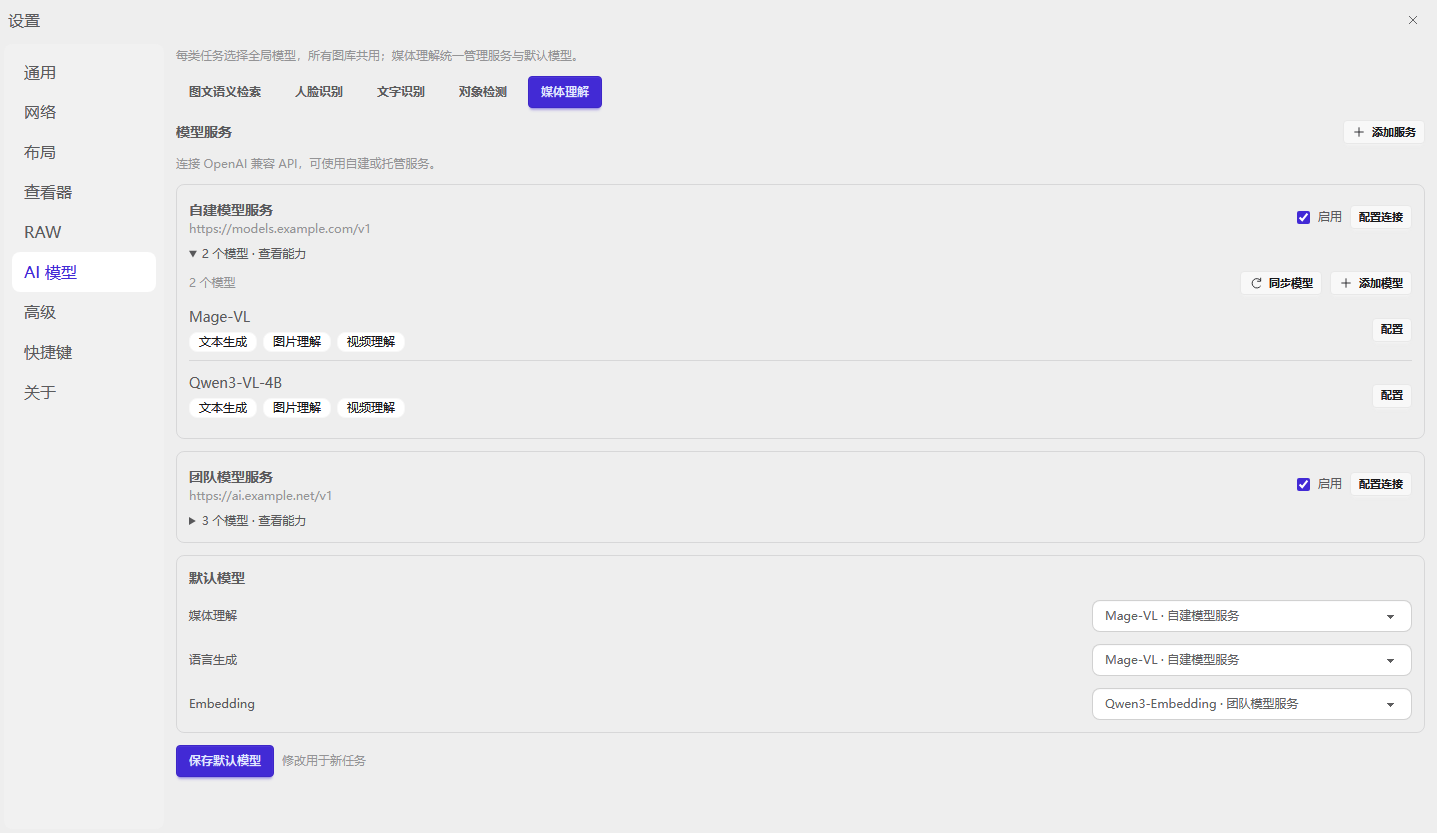
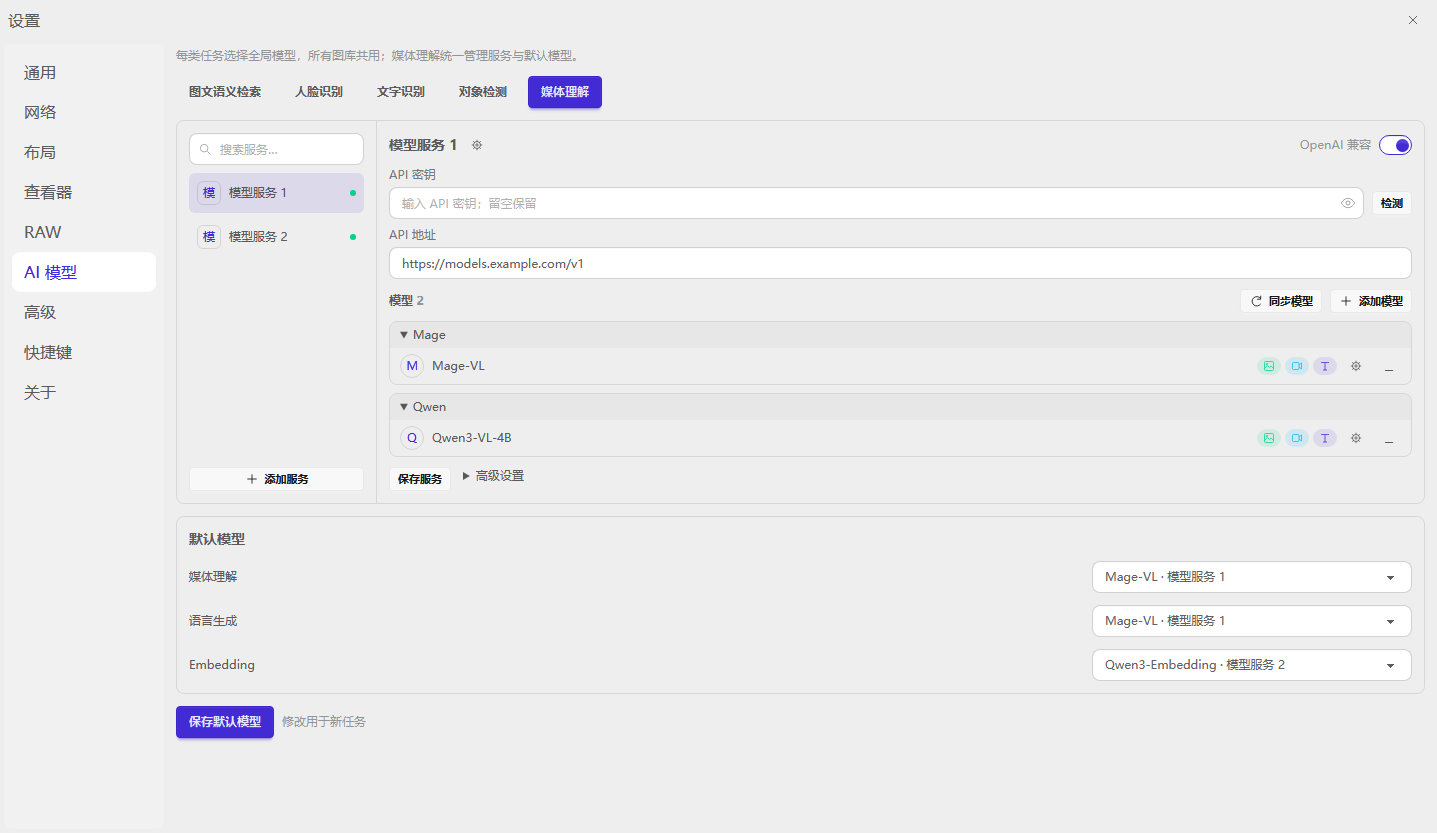
docs(design): 按参考图改为统一模型服务列表与详情

diff --git a/design/media-understanding/views-services.js b/design/media-understanding/views-services.js
@@ -1,30 +1,34 @@
 function service(id=App.state.providerId){const original=PROVIDERS.find(p=>p.id===id)||PROVIDERS[0];return {...original,...App.state.providerOverrides[original.id]};}
 function modelReady(m){return m.status==='ready'&&(!m.providerId||(service(m.providerId).enabled&&(!App.state.dirtyProviders.includes(m.providerId)||App.state.verifiedModels[m.id])));}
 function modelLabel(m){return m.name+' · '+(m.providerId?service(m.providerId).name:'本机');}
+const CAP_ICONS={image:'image',video_frames:'video',text:'text',embed_text:'grid',embed_multimodal:'box'};
+const VISIBILITY_ICON='<svg viewBox="0 0 24 24" aria-hidden="true"><path d="M2 12s3.5-7 10-7 10 7 10 7-3.5 7-10 7S2 12 2 12Z"/><circle cx="12" cy="12" r="3"/></svg>';
+function capabilityIcons(m){return Object.entries(CAP_ICONS).filter(([cap])=>m.caps.includes(cap)).map(([cap,name])=>`<span class="model-capability cap-${cap}" data-capability="${cap}" tabindex="0" title="${CAP_LABELS[cap]}" aria-label="${CAP_LABELS[cap]}">${icon(name,12)}</span>`).join('');}
 function providerModels(p){
   const rows=MODELS.filter(m=>m.providerId===p.id);
-  return `<div class="provider-models"><div class="between"><span class="helper">${rows.length} 个模型</span><div class="row">${UI.button('同步模型','sync-models','small quiet','refresh')}${UI.button('添加模型','add-provider-model','small quiet','plus')}</div></div>${rows.map(m=>`<div class="provider-model-row"><div><b>${UI.escape(m.name)}${!modelReady(m)?` <small>${UI.escape(m.state)}</small>`:''}</b><div class="cap-line">${m.caps.filter(c=>c!=='json').map(c=>UI.pill(CAP_LABELS[c])).join('')}</div></div><button class="btn btn-xs" data-model-settings="${m.id}" aria-label="配置 ${UI.escape(m.name)}">配置</button></div>`).join('')||'<p class="helper">同步模型列表，或手动添加模型 ID。</p>'}</div>`;
+  const groups=[...new Set(rows.map(m=>m.group||'其他'))];
+  return `<div class="provider-models"><div class="between"><h3>模型 <span class="helper">${rows.length}</span></h3><div class="row">${UI.button('同步模型','sync-models','small quiet','refresh')}${UI.button('添加模型','add-provider-model','small quiet','plus')}</div></div><div class="provider-model-groups">${groups.map(group=>`<details class="model-family" open><summary>${UI.escape(group)}</summary>${rows.filter(m=>(m.group||'其他')===group).map(m=>`<div class="provider-model-row"><span class="model-avatar" aria-hidden="true">${UI.escape(m.name[0])}</span><span class="provider-model-name" title="${UI.escape(m.remoteId)}">${UI.escape(m.name)}</span>${!modelReady(m)?'<span class="model-pending" title="能力待验证">待验证</span>':''}<span class="model-capabilities-inline">${capabilityIcons(m)}</span><button class="icon-button" data-model-settings="${m.id}" aria-label="配置 ${UI.escape(m.name)}" title="模型设置">${icon('settings',14)}</button><button class="icon-button" data-action="remove-provider-model" aria-label="移除 ${UI.escape(m.name)}" title="移除模型">−</button></div>`).join('')}</details>`).join('')||'<p class="helper">同步列表或手动添加模型 ID。</p>'}</div></div>`;
 }
 function serviceConnection(p){
-  return `<div class="provider-connection">${UI.field('服务名称',`<input class="input" data-service-field="name" value="${UI.escape(p.name)}" aria-label="服务名称">`)}${UI.field('API 基础地址',`<input class="input" data-service-field="baseUrl" value="${UI.escape(p.baseUrl)}" aria-label="服务 API 地址">`)}${UI.field('API 密钥',`<input class="input" type="password" placeholder="留空保留已保存的密钥" autocomplete="off" aria-label="服务 API 密钥">`)}<p class="endpoint-preview" id="endpoint-preview">OpenAI 兼容 · ${UI.escape(p.baseUrl.replace(/\/$/,''))}/chat/completions · /embeddings</p><div class="row wrap">${UI.button('保存连接','save-api','small primary')}${UI.button('检测连接','test-api','small quiet')}<span class="helper" id="api-status">${App.state.apiTested?'模拟连接检测通过；模型能力仍需分别检测。':''}</span></div><details class="provider-details"><summary>数据传输与高级设置</summary><label class="check"><input type="checkbox" checked><span>允许发送本次选定的媒体与文字</span></label><label class="check"><input type="checkbox"><span>允许后台批量处理</span></label></details></div>`;
+  return `<div class="provider-connection">${UI.field('API 密钥',`<div class="service-key-row"><div class="service-key-input"><input id="service-api-key" class="input" type="password" placeholder="输入 API 密钥；留空保留" autocomplete="off" aria-label="服务 API 密钥"><button class="icon-button" data-action="toggle-api-key" aria-label="显示 API 密钥" title="显示／隐藏密钥">${VISIBILITY_ICON}</button></div>${UI.button('检测','test-api','small quiet')}</div>`)}${UI.field('API 地址',`<input class="input" data-service-field="baseUrl" value="${UI.escape(p.baseUrl)}" aria-label="服务 API 地址">`)}</div>`;
 }
-function mediaSettings(connection=false){
+function mediaSettings(){
   App.state.task='media';
-  const expanded=connection?App.state.providerId:null;
-  const services=PROVIDERS.map((original,index)=>{
-    const p=service(original.id),open=expanded===p.id;
-    return `<section class="setting-card service-card"><div class="between"><div><strong>${UI.escape(p.name)}</strong><p class="helper">${UI.escape(p.baseUrl)}</p></div><div class="row"><label class="provider-switch"><input type="checkbox" data-provider-enabled="${p.id}" ${p.enabled?'checked':''}><span>启用</span></label><button class="btn btn-xs" data-provider="${p.id}">${open?'连接设置':'配置连接'}</button></div></div>${open?serviceConnection(p):''}<details ${index===0||open?'open':''}><summary>${MODELS.filter(m=>m.providerId===p.id).length} 个模型 · 查看能力</summary>${providerModels(p)}</details></section>`;
-  }).join('');
-  return UI.settingsWindow(`<p class="helper">每类任务选择全局模型，所有图库共用；媒体理解统一管理服务与默认模型。</p>${taskButtons()}<div class="between"><h3 class="text-sm font-semibold">模型服务</h3>${UI.button('添加服务','add-service','small quiet','plus')}</div><p class="helper">连接 OpenAI 兼容 API，可使用自建或托管服务。</p><div class="space-y-3">${services}</div>${configCard('默认模型',`${compactRole('媒体理解','image','image')}${compactRole('语言生成','text','text')}${compactRole('Embedding','textEmbed','embed_text')}`)}<div class="row">${UI.button('保存默认模型','save-routes','primary')}<span class="helper">修改用于新任务</span></div>`,{title:'一个媒体理解标签页',notes:[['服务、模型、默认用途三层','上方管理多个 OpenAI 兼容后端，每个后端管理多个模型；下方只有媒体理解、语言生成、Embedding 三个默认选择，不新增语言生成或 Embedding 标签页。'],['部署位置与品牌无关','服务只填写名称、API 基础地址和密钥。可以连接任意已部署的兼容接口；示例多模型服务可以是具有模型路由能力的网关。'],['首版范围收敛','首版只连接 API，不提供 Mage／Qwen 本机安装、环境下载或引擎选择；现有人脸、OCR、对象、CLIP 本机能力继续保留。'],['能力标记与验证','图片、视频、文本生成、文本 Embedding、多模态 Embedding 是可重叠的模型能力。默认列表按能力筛选；接口检测不代替能力检测。多模态向量输入扩展尚未验收时保持不可选。'],['视频与检索边界','首版视频以采样帧和时间说明输入；单个媒体默认模型同时引用到图片和视频用途，若不支持视频则在任务预检明确提示。Embedding 不要求每次搜索重新理解媒体。']]});
+  const p=service(),query=App.state.providerSearch.trim().toLowerCase();
+  const noMatch=!PROVIDERS.some(item=>service(item.id).name.toLowerCase().includes(query));
+  const providers=PROVIDERS.map(original=>{const item=service(original.id);return `<button class="provider-option" data-provider="${item.id}" data-provider-name="${UI.escape(item.name)}" aria-pressed="${item.id===p.id}" ${item.name.toLowerCase().includes(query)?'':'hidden'}><span class="provider-avatar" aria-hidden="true">${UI.escape(item.name[0])}</span><span class="provider-option-name">${UI.escape(item.name)}</span><span class="provider-status ${item.enabled?'enabled':''}" title="${item.enabled?'已启用':'未启用'}"></span></button>`;}).join('');
+  const name=App.state.renamingService?`<input class="input input-sm" data-service-field="name" value="${UI.escape(p.name)}" aria-label="服务名称">`:`<strong>${UI.escape(p.name)}</strong><button class="icon-button" data-action="rename-service" aria-label="修改服务名称" title="服务设置">${icon('settings',14)}</button>`;
+  const browser=`<section class="service-browser"><aside class="provider-sidebar" aria-label="模型服务列表"><label class="provider-search">${icon('search',14)}<input id="provider-search" class="input" placeholder="搜索服务…" value="${UI.escape(App.state.providerSearch)}" aria-label="搜索模型服务"></label><div class="provider-options">${providers}<p class="helper" id="provider-search-empty" ${noMatch?'':'hidden'}>没有匹配的服务</p></div>${UI.button('添加服务','add-service','small quiet','plus')}</aside><div class="provider-detail"><label class="compact-provider-picker">模型服务<select class="select" id="compact-provider" aria-label="选择模型服务">${PROVIDERS.map(item=>`<option value="${item.id}" ${item.id===p.id?'selected':''}>${UI.escape(service(item.id).name)}</option>`).join('')}</select></label><div class="provider-detail-header">${name}<span class="helper">OpenAI 兼容</span><input class="toggle toggle-sm toggle-primary" type="checkbox" role="switch" data-provider-enabled="${p.id}" ${p.enabled?'checked':''} aria-label="启用当前服务"></div>${serviceConnection(p)}${providerModels(p)}<div class="service-save-row">${UI.button('保存服务','save-api','small quiet')}<details class="provider-details"><summary>高级设置</summary><p class="endpoint-preview" id="endpoint-preview">${UI.escape(p.baseUrl.replace(/\/$/,''))}/chat/completions · /embeddings</p><label class="check"><input type="checkbox" checked><span>允许发送选定媒体与文字</span></label><label class="check"><input type="checkbox"><span>允许后台批量处理</span></label></details><span class="helper" id="api-status">${App.state.apiTested?'模拟连接检测通过；模型能力仍需分别检测。':''}</span></div></div></section>`;
+  return UI.settingsWindow(`<p class="helper">每类任务选择全局模型，所有图库共用；媒体理解统一管理服务与默认模型。</p>${taskButtons()}${browser}${configCard('默认模型',`${compactRole('媒体理解','image','image')}${compactRole('语言生成','text','text')}${compactRole('Embedding','textEmbed','embed_text')}`)}<div class="row">${UI.button('保存默认模型','save-routes','primary')}<span class="helper">修改用于新任务</span></div>`,{title:'参考附图的服务列表与详情',notes:[['服务不分类','所有服务使用相同字段与同一列表，名称由用户自定义；不设置自建、团队、托管平台等类别。图中只有中性示例名称。'],['参考 Cherry Studio 的具体交互','左侧搜索、选择和添加服务，右侧显示所选服务的名称、启用开关、API 密钥与检测、基础地址、同步／添加模型。模型按可编辑分组展示，行尾用能力图标与设置入口。这里只参考用户附图，不复制其整个设置导航。'],['融入 Lap 原设置','保留独立设置窗口、原九个分类、原四项 AI 任务与媒体理解一个新标签页。宽窗口使用列表加详情，最小窗口以服务选择器切换详情；下方仍只有三个默认模型选择。'],['能力可重叠','图片、视频、文本生成、文本 Embedding、多模态 Embedding 以图标和完整提示标记；模型设置可编辑能力。分组仅影响展示，不决定模型能力或用途。'],['首版接入范围','只接 OpenAI 兼容 API，模型服务器可以部署在任意位置。本机生成引擎和未验收的多模态向量扩展继续延后；现有专用识别不变。']]});
 }
 const ServiceViews={
-  api(){return mediaSettings(true);},
+  api(){return mediaSettings();},
   services(){return mediaSettings();},
   catalog(){return mediaSettings();},
   routing(){return mediaSettings();},
   model(){
     App.state.task='media';
     const m=UI.model(App.state.editingModelId),p=service(m.providerId);
-    return UI.settingsWindow(`<p class="helper">每类任务选择全局模型，所有图库共用；媒体理解统一管理服务与默认模型。</p>${taskButtons()}<button class="text-button" data-nav="understand">‹ 返回服务与默认模型</button>${configCard('模型属性',`${UI.field('所属服务',`<div class="inherited-value">${UI.escape(p.name)} · 继承地址与密钥</div>`)}${UI.field('模型 ID',`<input class="input" data-model-field="remoteId" value="${UI.escape(m.remoteId)}" aria-label="模型 ID">`)}${UI.field('显示名称',`<input class="input" data-model-field="name" value="${UI.escape(m.name)}" aria-label="模型显示名称">`)}`)}${configCard('模型能力',`<div class="model-capabilities">${['image','video_frames','text','embed_text','embed_multimodal','json'].map(c=>`<label><input type="checkbox" data-model-cap="${c}" ${m.caps.includes(c)?'checked':''}><span>${CAP_LABELS[c]}</span></label>`).join('')}</div><p class="helper">能力可多选；用于筛选默认模型，实际可用性还需检测。</p><p class="helper">视频当前使用带时间说明的采样帧。多模态 Embedding 需要验证服务端的输入扩展。</p><div class="row">${UI.button('检测已标记能力','check-model','small quiet')}${UI.button('保存模型','save-model','small primary')}</div>`)}<details class="provider-details"><summary>模型参数</summary><p class="helper">设置上下文、输出长度和超时；连接信息继承服务。</p></details>`,{title:'同一个模型可以标记多项能力',notes:[['模型能力不等于业务分类','Mage／Qwen-VL 可同时提供图片、视频采样帧与文本生成能力，一次配置即可在多个用途复用。'],['不会将能力标记当成测试','更改能力或模型 ID 会使验证状态失效；按具体部署分别检测。文本模型不进入媒体理解候选，生成模型不自动进入 Embedding 候选。'],['向量接口保留明确边界','多模态 Embedding 标记保留，但不在首版承诺任意服务都能经标准文本 /embeddings 接收图片或视频。']]});
+    return UI.settingsWindow(`<p class="helper">每类任务选择全局模型，所有图库共用；媒体理解统一管理服务与默认模型。</p>${taskButtons()}<button class="text-button" data-nav="understand">‹ 返回服务与默认模型</button>${configCard('模型属性',`${UI.field('所属服务',`<div class="inherited-value">${UI.escape(p.name)} · 继承地址与密钥</div>`)}${UI.field('模型 ID',`<input class="input" data-model-field="remoteId" value="${UI.escape(m.remoteId)}" aria-label="模型 ID">`)}${UI.field('显示名称',`<input class="input" data-model-field="name" value="${UI.escape(m.name)}" aria-label="模型显示名称">`)}${UI.field('显示分组',`<input class="input" data-model-field="group" value="${UI.escape(m.group||'其他')}" aria-label="模型显示分组">`)}`)}${configCard('模型能力',`<div class="model-capabilities">${['image','video_frames','text','embed_text','embed_multimodal','json'].map(c=>`<label><input type="checkbox" data-model-cap="${c}" ${m.caps.includes(c)?'checked':''}><span>${CAP_LABELS[c]}</span></label>`).join('')}</div><p class="helper">能力可多选；用于筛选默认模型，实际可用性还需检测。</p><p class="helper">视频当前使用带时间说明的采样帧。多模态 Embedding 需要验证服务端的输入扩展。</p><div class="row">${UI.button('检测已标记能力','check-model','small quiet')}${UI.button('保存模型','save-model','small primary')}</div>`)}<details class="provider-details"><summary>模型参数</summary><p class="helper">设置上下文、输出长度和超时；连接信息继承服务。</p></details>`,{title:'同一个模型可以标记多项能力',notes:[['模型能力不等于业务分类','Mage／Qwen-VL 可同时提供图片、视频采样帧与文本生成能力，一次配置即可在多个用途复用。'],['不会将能力标记当成测试','更改能力或模型 ID 会使验证状态失效；按具体部署分别检测。文本模型不进入媒体理解候选，生成模型不自动进入 Embedding 候选。'],['向量接口保留明确边界','多模态 Embedding 标记保留，但不在首版承诺任意服务都能经标准文本 /embeddings 接收图片或视频。']]});
   },
 };

diff --git a/design/media-understanding/app.js b/design/media-understanding/app.js
@@ -47,6 +47,7 @@ function navigate(screen,params={}){
 function loadLocation(){
   const q=new URLSearchParams(location.search);App.screen=VIEWS[q.get('screen')]?q.get('screen'):'models';
   App.params=q;if(App.screen==='batch')App.state.scope=SCOPES[q.get('scope')]?q.get('scope'):'selected';
+  if(PROVIDERS.some(p=>p.id===q.get('provider')))App.state.providerId=q.get('provider');
   if(App.screen==='understand')App.state.task='media';
   render();
 }
@@ -79,7 +80,7 @@ function runSearch(){
   App.state.searchRan=true;navigate('search');toast('这是检索流程示意，没有运行真实 Embedding 或媒体分析。');
 }
 function handleClick(event){
-  const provider=event.target.closest('[data-provider]');if(provider){App.state.providerId=provider.dataset.provider;App.state.apiTested=false;navigate('api');return;}
+  const provider=event.target.closest('[data-provider]');if(provider){App.state.providerId=provider.dataset.provider;App.state.apiTested=false;App.state.renamingService=false;navigate('api');return;}
   const modelSettings=event.target.closest('[data-model-settings]');if(modelSettings){App.state.editingModelId=modelSettings.dataset.modelSettings;App.state.providerId=UI.model(App.state.editingModelId).providerId;navigate('model');return;}
   const task=event.target.closest('[data-task]');if(task){App.state.task=task.dataset.task;navigate(App.state.task==='media'?'understand':'models');return;}
   const cap=event.target.closest('[data-filter]');if(cap){App.state.filter=cap.dataset.filter;render();return;}
@@ -89,7 +90,10 @@ function handleClick(event){
   const target=event.target.closest('[data-action]');
   if(!target){const nav=event.target.closest('[data-nav]');if(nav)navigate(nav.dataset.nav);return;}
   const action=target.dataset.action;
-  if(action==='add-service'){const id='custom-'+(PROVIDERS.length+1);PROVIDERS.push({id,name:'自定义服务',baseUrl:'https://api.example.com/v1',enabled:false});App.state.providerId=id;App.state.apiTested=false;navigate('api');return;}
+  if(action==='add-service'){const id='custom-'+(PROVIDERS.length+1);PROVIDERS.push({id,name:'新服务',baseUrl:'https://api.example.com/v1',enabled:false});App.state.providerId=id;App.state.apiTested=false;App.state.providerSearch='';App.state.renamingService=true;navigate('api');return;}
+  if(action==='rename-service'){App.state.renamingService=true;render();return;}
+  if(action==='toggle-api-key'){const field=target.ownerDocument.getElementById('service-api-key');field.type=field.type==='password'?'text':'password';target.setAttribute('aria-label',field.type==='password'?'显示 API 密钥':'隐藏 API 密钥');return;}
+  if(action==='remove-provider-model'){toast('移除模型入口示意；实际操作前检查默认用途和任务引用。');return;}
   if(action==='remote-guide'){window.open('../../scripts/ai-server/README.md','_blank');return;}
   if(action==='sync-models'){toast('模拟同步当前服务模型；不改变默认模型，未发送真实网络请求。');return;}
   if(action==='add-provider-model'){toast('示例：可手填服务端模型 ID；不支持列举模型的服务也可配置。');return;}
@@ -150,8 +154,9 @@ function handleChange(event){
   const el=event.target;
   if(el.hasAttribute('data-ai-model')){App.state.nativeEditingByTask={...App.state.nativeEditingByTask,[App.state.task]:el.value};App.state.editingModelId=el.value;render();return;}
   if(el.dataset.providerEnabled){const id=el.dataset.providerEnabled;App.state.providerOverrides[id]={...App.state.providerOverrides[id],enabled:el.checked};render();return;}
-  if(el.dataset.modelField||el.dataset.modelCap){const m=UI.model(App.state.editingModelId);if(el.dataset.modelField)m[el.dataset.modelField]=el.value;else{const caps=new Set(m.caps);el.checked?caps.add(el.dataset.modelCap):caps.delete(el.dataset.modelCap);m.caps=[...caps];}m.status='untested';m.state='待验证';delete App.state.verifiedModels[m.id];render();return;}
-  if(el.dataset.serviceField){const id=App.state.providerId,key=el.dataset.serviceField;App.state.providerOverrides[id]={...App.state.providerOverrides[id],[key]:el.value};if(key==='baseUrl'){App.state.apiTested=false;App.state.dirtyProviders=[...new Set([...App.state.dirtyProviders,id])];MODELS.filter(m=>m.providerId===id).forEach(m=>delete App.state.verifiedModels[m.id]);}render();return;}
+  if(el.dataset.modelField||el.dataset.modelCap){const m=UI.model(App.state.editingModelId);if(el.dataset.modelField)m[el.dataset.modelField]=el.value;else{const caps=new Set(m.caps);el.checked?caps.add(el.dataset.modelCap):caps.delete(el.dataset.modelCap);m.caps=[...caps];}if(el.dataset.modelCap||el.dataset.modelField==='remoteId'){m.status='untested';m.state='待验证';delete App.state.verifiedModels[m.id];}render();return;}
+  if(el.dataset.serviceField){const id=App.state.providerId,key=el.dataset.serviceField;App.state.providerOverrides[id]={...App.state.providerOverrides[id],[key]:el.value};if(key==='name')App.state.renamingService=false;if(key==='baseUrl'){App.state.apiTested=false;App.state.dirtyProviders=[...new Set([...App.state.dirtyProviders,id])];MODELS.filter(m=>m.providerId===id).forEach(m=>delete App.state.verifiedModels[m.id]);}render();return;}
+  if(el.id==='compact-provider'){App.state.providerId=el.value;App.state.apiTested=false;App.state.renamingService=false;navigate('api');return;}
   if(el.id==='screen-select'){const s=SCREENS[Number(el.value)];navigate(s.id,Object.fromEntries(new URLSearchParams(s.query||'')));return;}
   if(el.dataset.role){App.state.roles[el.dataset.role]=el.value;if(el.dataset.role==='image')App.state.roles.video=el.value;render();return;}
   if(el.id==='scope-select'){App.state.scope=el.value;navigate('batch',{scope:el.value});return;}
@@ -160,6 +165,14 @@ function handleChange(event){
   if(el.id==='existing-tags-only'){App.state.existingTagsOnly=el.checked;return;}
 }
 document.addEventListener('change',handleChange);
+function handleInput(event){
+  if(event.target.id!=='provider-search')return;
+  App.state.providerSearch=event.target.value;
+  const doc=event.target.ownerDocument,query=App.state.providerSearch.trim().toLowerCase();
+  const rows=Array.from(doc.querySelectorAll('[data-provider]'));rows.forEach(row=>{row.hidden=!row.dataset.providerName.toLowerCase().includes(query);});
+  doc.getElementById('provider-search-empty').hidden=rows.some(row=>!row.hidden);
+}
+document.addEventListener('input',handleInput);
 function handleKeydown(event){
   if(event.key!=='Enter')return;
   if(event.target.id==='photo-question'){event.preventDefault();appendQuestion(event.target.value);}
@@ -167,5 +180,5 @@ function handleKeydown(event){
 }
 document.addEventListener('keydown',handleKeydown);
 addEventListener('popstate',loadLocation);
-window.LapDesign={screens:SCREENS,get screen(){return App.screen;},get state(){return JSON.parse(JSON.stringify(App.state));},get designNotes(){return App.currentDesignNotes?JSON.parse(JSON.stringify(App.currentDesignNotes)):null;},get nativeView(){return App.currentNativeView;},get nativeDocument(){return document.getElementById('native-settings-frame')?.contentDocument||null;},query(selector){return this.nativeDocument?.querySelector(selector)||document.querySelector(selector);},nativeEvent(type,event){({click:handleClick,change:handleChange,keydown:handleKeydown})[type]?.(event);},nativeReady(frame){if(frame===document.getElementById('native-settings-frame'))document.body.dataset.ready='true';},nativeAction(action,value){if(action==='test-model'){App.state.verifiedModels[App.state.editingModelId]=true;toast('模拟模型能力检测，不调用真实模型。');}else toast(value||'现有功能入口保持原位。');},navigate};
+window.LapDesign={screens:SCREENS,get screen(){return App.screen;},get state(){return JSON.parse(JSON.stringify(App.state));},get designNotes(){return App.currentDesignNotes?JSON.parse(JSON.stringify(App.currentDesignNotes)):null;},get nativeView(){return App.currentNativeView;},get nativeDocument(){return document.getElementById('native-settings-frame')?.contentDocument||null;},query(selector){return this.nativeDocument?.querySelector(selector)||document.querySelector(selector);},nativeEvent(type,event){({click:handleClick,change:handleChange,input:handleInput,keydown:handleKeydown})[type]?.(event);},nativeReady(frame){if(frame===document.getElementById('native-settings-frame'))document.body.dataset.ready='true';},nativeAction(action,value){if(action==='test-model'){App.state.verifiedModels[App.state.editingModelId]=true;toast('模拟模型能力检测，不调用真实模型。');}else toast(value||'现有功能入口保持原位。');},navigate};
 loadLocation();

diff --git a/design/media-understanding/model-data.js b/design/media-understanding/model-data.js
@@ -1,8 +1,8 @@
 const SCREENS = [
   {id:'baseline',title:'当前设置布局复核',file:'00-current-settings.png',group:'现状对照',caption:'复用当前 Vue 模板与前端样式，在 1437×833 浅色窗口复核截图中的布局；数据为样例。'},
   {id:'models',title:'AI 模型原位扩展',file:'01-model-management.png',group:'模型与服务',caption:'默认仍为 CLIP，原四项任务保留，只追加一个媒体理解标签页。'},
-  {id:'understand',title:'媒体理解统一配置',file:'17-media-model.png',group:'模型与服务',caption:'同一页管理多个 OpenAI 兼容服务及其模型，下方分别选择媒体理解、语言生成和 Embedding 默认模型。'},
-  {id:'api',title:'服务连接配置',file:'08-api-connection.png',group:'模型与服务',caption:'在媒体理解页展开服务连接，只填写名称、基础地址和密钥；不绑定部署平台。'},
+  {id:'understand',title:'媒体理解统一配置',file:'17-media-model.png',group:'模型与服务',caption:'参考附图：左侧搜索和选择服务，右侧配置密钥、地址与分组模型，下方保留三个默认模型选择。'},
+  {id:'api',title:'切换模型服务',file:'08-api-connection.png',group:'模型与服务',query:'provider=service-2',caption:'服务统一为可自定义名称的同类对象；切换只编辑当前服务，模型行显示能力图标。'},
   {id:'model',title:'模型能力标记',file:'16-model-properties.png',group:'模型与服务',caption:'模型归属服务；标记图片、视频、文本生成和向量能力，用于筛选默认模型。'},
   {id:'understand',title:'媒体理解最小窗口适配',file:'19-media-compact.png',group:'窗口适配',query:'size=compact',caption:'同一组件与 CSS 在 600×620 最小窗口自然换行和滚动，不另建紧凑版页面。'},
   {id:'workspace',title:'内容索引工作区',file:'05-library-workspace.png',group:'分析与检索',caption:'分析完成不等于向量就绪；未建立内容索引的媒体不被当作内容不存在。'},
@@ -17,15 +17,15 @@ const SCREENS = [
   {id:'flow',title:'开发流程与数据边界',file:'13-flow-guide.png',group:'开发蓝图',caption:'离线索引、自然语言搜索和单媒体问答三条链路，共享部署与来源校验。'},
 ];
 const PROVIDERS = [
-  {id:'vision-server',name:'自建模型服务',baseUrl:'https://models.example.com/v1',enabled:true},
-  {id:'workspace-server',name:'团队模型服务',baseUrl:'https://ai.example.net/v1',enabled:true},
+  {id:'service-1',name:'模型服务 1',baseUrl:'https://models.example.com/v1',enabled:true},
+  {id:'service-2',name:'模型服务 2',baseUrl:'https://ai.example.net/v1',enabled:true},
 ];
 const MODELS = [
-  {id:'vision-lan',providerId:'vision-server',remoteId:'mage-vl',name:'Mage-VL',mode:'API',status:'ready',state:'示例已验证',caps:['text','image','video_frames','json']},
-  {id:'qwen-api',providerId:'vision-server',remoteId:'qwen3-vl-4b-instruct',name:'Qwen3-VL-4B',mode:'API',status:'ready',state:'示例已验证',caps:['text','image','video_frames','json']},
-  {id:'cloud-text',providerId:'workspace-server',remoteId:'text-model',name:'语言模型',mode:'API',status:'ready',state:'示例已验证',caps:['text','json']},
-  {id:'embed-text-api',providerId:'workspace-server',remoteId:'qwen3-embedding-0.6b',name:'Qwen3-Embedding',mode:'API',status:'ready',state:'示例已验证',caps:['embed_text']},
-  {id:'embed-multimodal-api',providerId:'workspace-server',remoteId:'qwen3-vl-embedding',name:'Qwen3-VL-Embedding',mode:'API',status:'untested',state:'多模态接口待验证',caps:['embed_text','embed_multimodal']},
+  {id:'vision-lan',providerId:'service-1',group:'Mage',remoteId:'mage-vl',name:'Mage-VL',mode:'API',status:'ready',state:'示例已验证',caps:['text','image','video_frames','json']},
+  {id:'qwen-api',providerId:'service-1',group:'Qwen',remoteId:'qwen3-vl-4b-instruct',name:'Qwen3-VL-4B',mode:'API',status:'ready',state:'示例已验证',caps:['text','image','video_frames','json']},
+  {id:'cloud-text',providerId:'service-2',group:'通用',remoteId:'text-model',name:'语言模型',mode:'API',status:'ready',state:'示例已验证',caps:['text','json']},
+  {id:'embed-text-api',providerId:'service-2',group:'Qwen',remoteId:'qwen3-embedding-0.6b',name:'Qwen3-Embedding',mode:'API',status:'ready',state:'示例已验证',caps:['embed_text']},
+  {id:'embed-multimodal-api',providerId:'service-2',group:'Qwen',remoteId:'qwen3-vl-embedding',name:'Qwen3-VL-Embedding',mode:'API',status:'untested',state:'多模态接口待验证',caps:['embed_text','embed_multimodal']},
   {id:'clip-local',name:'现有 CLIP',family:'CLIP 图文检索',mode:'本机',location:'本机',status:'ready',state:'既有索引',caps:['clip_query','embed_image'],note:'可继续检索既有索引，与新索引分别管理版本。'},
   {id:'ocr-local',name:'现有文字识别',family:'OCR 识别模型',mode:'本机',location:'本机',status:'ready',state:'既有能力',caps:['ocr'],note:'保留专用识别契约及人工修订。'},
 ];
@@ -39,7 +39,7 @@ const App = {
   screen:'models',params:new URLSearchParams(location.search),
   state:{
     roles:{text:'vision-lan',image:'vision-lan',video:'vision-lan',textEmbed:'embed-text-api'},
-    filter:'all',task:'semantic',providerId:'vision-server',providerOverrides:{},dirtyProviders:[],verifiedModels:{},editingModelId:'vision-lan',apiTested:false,scope:'selected',
+    filter:'all',task:'semantic',providerId:'service-1',providerSearch:'',providerOverrides:{},dirtyProviders:[],verifiedModels:{},editingModelId:'vision-lan',apiTested:false,scope:'selected',
     fields:{title:true,description:true,tags:true},indexEnabled:true,existingTagsOnly:true,
     title:'',description:'',tags:['旅行'],qaMessages:[],qaInspected:false,qaPending:false,
     searchQuery:'找出 2025 年四星以上有湖边木屋的照片和视频',searchRan:true,

diff --git a/design/media-understanding/native-frame.css b/design/media-understanding/native-frame.css
@@ -22,7 +22,21 @@ body{font-family:var(--font-sans);font-size:16px;line-height:1.5}
 .provider-row small{opacity:.6}.provider-mark,.provider-model-symbol{display:none}
 .provider-model-row,.local-model-row{display:flex;align-items:center;gap:12px;padding:8px 0;border-bottom:1px solid color-mix(in oklab,var(--color-base-content) 10%,transparent)}
 .provider-model-row>div,.local-model-row>div{display:flex;flex:1;flex-direction:column;gap:4px}.provider-model-row b,.local-model-row b{font-size:14px;font-weight:500}.provider-model-row small,.local-model-row small{font-size:12px;opacity:.6}
-.service-card{gap:8px}.service-card strong{font-size:14px;font-weight:600}.service-card summary{font-size:12px;cursor:pointer}.service-card .provider-models{gap:4px;margin-top:8px}.service-card .provider-switch{font-size:12px}.service-card .provider-model-row:last-child{border:0}.service-card .cap-line{gap:6px}
+.service-browser{display:grid;grid-template-columns:200px minmax(0,1fr);border:1px solid color-mix(in oklab,var(--color-base-content) 10%,transparent);border-radius:var(--radius-box);overflow:hidden}
+.provider-sidebar{padding:12px;display:flex;flex-direction:column;gap:8px;min-width:0;border-right:1px solid color-mix(in oklab,var(--color-base-content) 10%,transparent)}
+.provider-search{position:relative}.provider-search>.input{width:100%;padding-left:30px}.provider-search>svg{position:absolute;z-index:1;pointer-events:none;left:9px;top:9px;width:14px;height:14px;fill:none;stroke:currentColor;stroke-width:1.4;opacity:.6}
+.provider-options{display:flex;flex-direction:column;gap:4px;flex:1;max-height:330px;overflow:auto}.service-browser [hidden]{display:none}
+.provider-option{display:flex;align-items:center;gap:8px;padding:8px;border:0;border-radius:6px;text-align:left;font-size:12px;cursor:pointer;min-width:0}.provider-option[aria-pressed=true]{background:color-mix(in oklab,var(--color-primary) 10%,transparent)}
+.provider-avatar,.model-avatar{width:24px;height:24px;flex:none;display:grid;place-items:center;border:1px solid color-mix(in oklab,var(--color-base-content) 12%,transparent);border-radius:6px;font-size:12px;color:var(--color-primary)}
+.provider-option-name{flex:1;overflow:hidden;text-overflow:ellipsis;white-space:nowrap}.provider-status{width:6px;height:6px;border-radius:50%;background:color-mix(in oklab,var(--color-base-content) 25%,transparent)}.provider-status.enabled{background:var(--color-success)}
+.provider-option:focus-visible,.icon-button:focus-visible,.model-capability:focus-visible{outline:2px solid var(--color-primary);outline-offset:2px}
+.provider-detail{display:flex;flex-direction:column;gap:10px;padding:12px;min-width:0}.provider-detail-header{display:flex;align-items:center;gap:8px;min-width:0}.provider-detail-header strong{font-size:14px;font-weight:600}.provider-detail-header>.helper{margin-left:auto}.provider-detail-header>.input{width:auto;min-width:0;flex:1}
+.provider-detail .provider-connection,.provider-detail .provider-models{gap:8px}.provider-detail .provider-models h3{font-size:12px}.service-key-row{display:flex;align-items:center;gap:8px}.service-key-input{position:relative;min-width:0;flex:1}.service-key-input>.input{padding-right:32px}.service-key-input>.icon-button{position:absolute;right:4px;top:4px;opacity:.6}
+.provider-model-groups{display:flex;flex-direction:column;gap:8px;max-height:220px;overflow:auto}.model-family{border:1px solid color-mix(in oklab,var(--color-base-content) 10%,transparent);border-radius:8px;overflow:hidden}.model-family>summary{padding:4px 10px;font-size:12px;cursor:pointer;background:color-mix(in oklab,var(--color-base-content) 3%,transparent)}
+.provider-detail .provider-model-row{padding:6px 10px;gap:8px}.provider-detail .provider-model-row:last-child{border:0}.provider-model-name{flex:1;min-width:0;font-size:12px;overflow:hidden;text-overflow:ellipsis;white-space:nowrap}.model-avatar{border-radius:50%}.model-pending{font-size:11px;opacity:.6;white-space:nowrap}
+.model-capabilities-inline{display:flex;gap:4px;align-items:center}.model-capability{display:grid;place-items:center;width:24px;height:18px;border-radius:12px;background:color-mix(in oklab,var(--color-primary) 10%,transparent);color:var(--color-primary)}.model-capability>svg{width:12px;height:12px;fill:none;stroke:currentColor;stroke-width:1.5}.cap-image{background:color-mix(in oklab,var(--color-success) 12%,transparent);color:var(--color-success)}.cap-video_frames{background:color-mix(in oklab,var(--color-info) 12%,transparent);color:var(--color-info)}.cap-embed_text{background:color-mix(in oklab,var(--color-secondary) 12%,transparent);color:var(--color-secondary)}
+.service-save-row{display:flex;align-items:flex-start;gap:12px}.compact-provider-picker{display:none;flex-direction:column;gap:4px;font-size:12px}.compact-provider-picker>.select{width:100%}
+@media(max-width:850px){.service-browser{grid-template-columns:minmax(0,1fr)}.provider-sidebar{display:none}.compact-provider-picker{display:flex}.provider-detail-header .helper{font-size:11px}.provider-detail .provider-model-row{padding:6px;gap:6px}.model-pending{display:none}.model-capability{width:20px}.provider-detail .model-avatar{display:none}}
 .provider-details{font-size:12px}.provider-details summary{cursor:pointer}.provider-details p,.provider-details .check{margin-top:8px}
 .compact-role{display:grid;grid-template-columns:minmax(140px,1fr) minmax(160px,320px);gap:4px 16px;align-items:center}.compact-role .select{width:100%}.compact-role .helper{grid-column:1/-1}
 .cap-line,.service-shortcuts{display:flex;gap:8px;flex-wrap:wrap}.service-tip,.test-status{display:flex;gap:8px;align-items:center;opacity:.6;font-size:12px;line-height:16px}.service-tip svg,.test-status svg{width:14px;height:14px;flex:none;fill:none;stroke:currentColor;stroke-width:1.5}

diff --git a/design/media-understanding/gallery.html b/design/media-understanding/gallery.html
@@ -17,7 +17,7 @@
   </style>
 </head>
 <body>
-  <header><div><h1>Lap AI · 按当前界面修订的设计稿</h1><p>设置复用当前 Vue 模板与样式，保留原四项任务，只追加媒体理解。页内管理多个 OpenAI 兼容服务及模型，下方选择媒体理解、语言生成和 Embedding 默认模型；服务可部署在任意位置。首版不增加本机生成引擎。所有模型能力与任务数据均为示例。</p></div><a href="index.html?screen=understand">打开交互原型 →</a></header>
+  <header><div><h1>Lap AI · 按当前界面修订的设计稿</h1><p>设置复用当前 Vue 模板与样式，只追加媒体理解。按本轮附图使用左侧服务列表、右侧连接详情与分组模型，能力以图标标记；所有服务同类、名称可自定义，下方仍是三个默认模型选择。首版只接 OpenAI 兼容 API。所有模型能力与任务数据均为示例。</p></div><a href="index.html?screen=understand">打开交互原型 →</a></header>
   <div class="scope">范围：产品设计与开发蓝图。图片只包含应用窗口；<a href="NOTES.md">设计说明单独查看</a>。当前布局图为源码重建，模型调用、下载、数据库写入均为模拟。业务边界见 <a href="SPEC.md">SPEC.md</a>，现状证据见 <a href="BASELINE.md">BASELINE.md</a>。</div>
   <main id="gallery"></main>
   <script src="model-data.js"></script>

diff --git a/design/media-understanding/native-frame.js b/design/media-understanding/native-frame.js
@@ -70,6 +70,7 @@
   app.mount('#native-root');
   document.addEventListener('click',event=>design.nativeEvent('click',event));
   document.addEventListener('change',event=>design.nativeEvent('change',event));
+  document.addEventListener('input',event=>design.nativeEvent('input',event));
   document.addEventListener('keydown',event=>design.nativeEvent('keydown',event));
   await V.nextTick();await document.fonts.ready;
   document.documentElement.dataset.ready='true';

diff --git a/docs/development/ai-service-protocols.md b/docs/development/ai-service-protocols.md
@@ -22,7 +22,7 @@ Qwen3-VL 官方也给出了 vLLM／SGLang 的 OpenAI 风格服务部署，DeepSe
 - `src/main/ai/provider/listModels.ts`：模型列表按服务协议取得，并有差异处理。
 - `src/renderer/pages/settings/ModelSettings/ModelSettings.tsx`：默认模型按业务引用已有模型。
 
-取其共享数据组织与能力标记，不复制管理台导航。Lap 保留原四项任务，只追加媒体理解；新标签页上方管理服务及模型，下方分别选择媒体理解、语言生成、Embedding。连接在服务卡片中展开，不另设服务／默认模型顶层入口。设置仍按用户 1437×833 浅色截图展示，并检查 600×620 最小窗口。
+按用户本轮附图采用更具体的接入交互：服务列表支持搜索、选择与添加；右侧为所选服务的启用开关、密钥与检测、API 地址、模型同步／添加、分组模型和能力图标。所有服务同类、名称自定义，不分自建或团队。Lap 保留原四项任务，只追加媒体理解，下方仍是三个默认模型选择；原设置导航与样式继续保留。主图 1437×833，最小 600×620 使用服务选择器。
 
 服务可以有多个模型，但“支持列举模型”“模型可推理”“图片或视频能力可用”分别验证。同步失败时允许手填 ID；同步不自动切换默认模型，不删除任务或历史引用所需的模型身份。
 
@@ -31,7 +31,7 @@ Qwen3-VL 官方也给出了 vLLM／SGLang 的 OpenAI 风格服务部署，DeepSe
 | 对象 | 字段 |
 | --- | --- |
 | 服务 | ID、名称、启用、基础地址、凭据引用、上传与后台许可、超时；首版固定 OpenAI 兼容 |
-| 服务内模型 | 稳定内部 ID、providerId、远程 model ID、显示名、能力、输入限制、模型参数覆盖、按能力回执 |
+| 服务内模型 | 稳定内部 ID、providerId、远程 model ID、显示名、展示分组、能力、输入限制、模型参数覆盖、按能力回执；分组不参与能力判定 |
 | 能力标记 | 图片理解、视频理解（首版采样帧）、文本生成、文本 Embedding、多模态 Embedding；另记按能力检测结果 |
 | 默认模型 | 媒体理解、语言生成、Embedding → 已配置模型引用；媒体项按类型预检能力 |
 | 后续本机来源 | 与 API 分开声明，由 Lap 管理资源和引擎；首版不新增本机生成运行环境 |

diff --git a/design/media-understanding/BASELINE.md b/design/media-understanding/BASELINE.md
@@ -22,9 +22,9 @@
 修订稿仅扩展这个区域，参考 Cherry Studio 调整配置组织：
 
 - 默认入口、原四项任务、CLIP 模型选择与配置保持原位；任务栏只追加媒体理解。
-- 媒体理解页上方管理多个 OpenAI 兼容服务的地址、凭据和模型；模型可标记多项能力。
+- 媒体理解页上方按附图使用左侧可搜索的服务列表与右侧所选服务详情；所有服务同类，名称可编辑，不分自建或团队。
 - 同页下方分别选择媒体理解、语言生成、Embedding 默认模型，不再拆成三个标签页。
-- `17-media-model.png` 展示整页；`08-api-connection.png` 展示同页展开连接；`16-model-properties.png` 展示能力详情。本机生成模型与多协议选择不在本期界面出现。
+- `17-media-model.png` 展示整页；`08-api-connection.png` 展示切换后的另一个服务；`16-model-properties.png` 展示分组与能力设置。模型列表以分组和能力图标呈现，窄窗口使用服务选择器。本机生成模型与多协议选择不在本期界面出现。
 - 保存与测试按钮保留在原表单中，随内容滚动，不新增固定底栏。保存参数、测试、启用继续保持不同含义。
 
 渲染入口为 `prepare-native.mjs` 与 `native-frame.js`，复用 Settings、TitleBar、AiModelSettings、CudaRuntimeSettings 模板。新增媒体理解表单在设计夹具中使用实际组件样式与原设置外壳；生产文件未修改。
